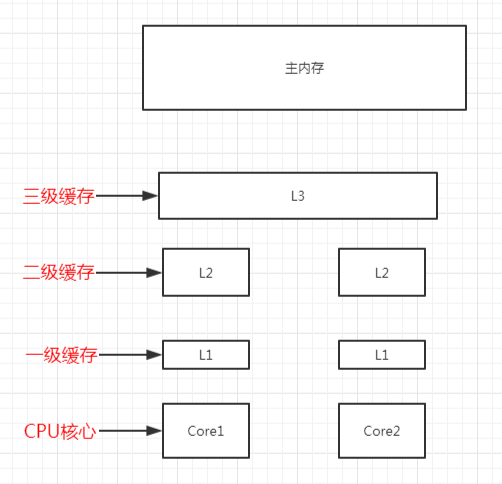
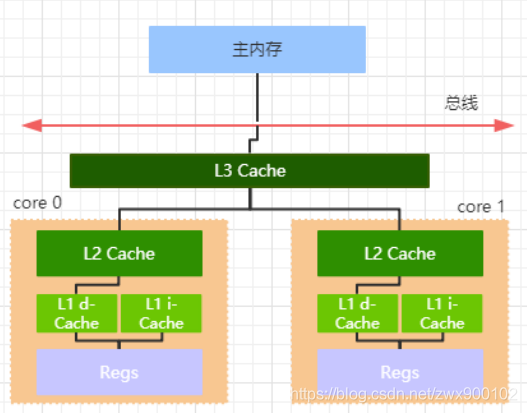
1

diff --git a/jvm/jmm.md b/jvm/jmm.md
@@ -1,5 +1,41 @@
 # jmm(java内存模型)
 
+## 硬件部分
+
+![](../resources/jmm.jpg)
+主内存：内存条  
+工作内存：cpu寄存器或者高速缓存
+
+![](../resources/jmm1.jpg)  
+这里一、二、三级缓存都是由缓存行组成，一个缓存行是64byte大小。
+
+## 伪共享
+
+伪共享的意思是，一个缓存行存多个属性，但是cpu都是以缓存行为单位执行的，这时候由于总线嗅探机制，会导致一个缓存行数据都失效，即使这个缓存行里只有一个属性有变化。解决方法：用@Contended注解，这个注解会自动为属性填充，使一个缓存行只有一个属性
+
+## volatile
+
+**原理：**  
+被volatile修饰的变量在编译成字节码文件时会多个lock指令，该指令在执行过程中会生成相应的<font color=red>**内存屏障**</font>，以此来解决可见性跟重排序的问题
+
+**作用：**
+
+1. 线程间可见：volatile并不是说线程直接读取主内存的值，而是当一个线程修改了工作内存的值，它会立即同步到主内存（没有用这个关键字并不是立即同步，而是看CPU），然后cpu总线嗅探机制会让其他核（线程)
+   的工作内存里的值失效，这样就可以重新去主内存拉取最新值
+2. 防止指令重排序
+
+**PS:用synchronized或者Lock给代码加锁，或者使用final，也是可以保证有序性与可见性的**
+
+1. 线程解锁前，必须把共享变量的最新值刷新到主内存中
+2. 线程加锁时，将清空工作内存中共享变量的值，从而使用共享变量时需要从主内存中重新获取最新的值
+
+## 内存屏障
+
+作用：
+
+1. 禁止指令重排序
+2. 保证数据的可见性（使用MESI协议）
+
 ## 指令重排
 
 在执行程序时，为了提高性能，编译器和处理器（**CPU**）会对指令做重排序：
@@ -35,47 +71,14 @@ Happens-Before规则：
 
 总结：一个操作“时间上的先发生”不代表这个操作先行发生；一个操作先行发生也不代表这个操作在时间上是先发生的（重排序的出现）。时间上的先后顺序对先行发生没有太大的关系，所以衡量并发安全问题的时候不要受到时间顺序的影响，一切以先行发生原则为准。
 
-## volatile
+## 缓存一致性协议(MESI)
 
-**作用：**
+MESI中每个缓存行都有四个状态，分别是E（exclusive）、M（modified）、S（shared）、I（invalid） MESI只是一种协议，他需要借助总线嗅探机制来实现
 
-1. 线程间可见：volatile并不是说线程直接读取主内存的值，而是当一个线程修改了工作内存的值，它会立即同步到主内存（没有用这个关键字并不是立即同步，而是看CPU），然后cpu总线嗅探机制会让其他核（线程)
-   的工作内存里的值失效，这样就可以重新去主内存拉取最新值
-2. 防止指令重排序
-
-**原理：**  
-内存屏障  
-在每个volatile写操作前插入StoreStore屏障，在写操作后插入StoreLoad屏障；在每个volatile读操作前插入LoadLoad屏障，在读操作后插入LoadStore屏障；所以volatile防止了指令的重排序(
-保证有序性)和内存的一致性(保证可见性)  
-
-**PS:用synchronized或者Lock给代码加锁，或者使用final，也是可以保证有序性与可见性的**  
-1. 线程解锁前，必须把共享变量的最新值刷新到主内存中
-2. 线程加锁时，将清空工作内存中共享变量的值，从而使用共享变量时需要从主内存中重新获取最新的值
-
-### 内存屏障
-
-作用：
-1. 它确保指令重排序时不会把其后面的指令排到内存屏障之前的位置，也不会把前面的指令排到内存屏障的后面；即在执行到内存屏障这句指令时，在它前面的操作已经全部完成；
-2. 它会强制将对缓存的修改操作立即写入主存；
-3. 如果是写操作，它会导致其他CPU中对应的缓存行无效。
-
-![](../resources/jmm.jpg)
-主内存：内存条  
-工作内存：cpu寄存器或者高速缓存
-
-## 缓存一致性协议(MESI)  
-MESI中每个缓存行都有四个状态，分别是E（exclusive）、M（modified）、S（shared）、I（invalid）  
-
-## 总线嗅探机制
-每个处理器（CPU）通过监听在总线上传播的数据来检查自己的缓存值是不是过期了，如果处理器发现自己缓存行对应的内存地址修改，就会将当前处理器的缓存行设置无效状态，当处理器对这个数据进行读取、修改操作的时候，会重新从主内存中把数据读到处理器缓存中。
+原理：  
+每个处理器（CPU）通过监听（<font color=red>**总线嗅探机制**</font>
+）在总线上传播的数据来检查自己的缓存值是不是过期了，如果处理器发现自己缓存行数据有修改，就会将当前处理器的缓存行设置无效状态，当处理器对这个数据进行读取、修改操作的时候，会重新从主内存中把数据读到处理器缓存中。
 
 ## 总线风暴
 
 如果用了太多volatile，会不断嗅探（cas）总线导致总线带宽达到峰值。
-
-## 伪共享：
-
-这里一、二、三级缓存都是由缓存行组成，一个缓存行是64byte大小。伪共享的意思是，一个缓存行存多个属性，但是cpu都是以缓存行为单位执行的，这时候由于总线嗅探机制，会导致一个缓存行数据都失效，即使这个缓存行里只有一个属性有变化。解决方法：用@Contended注解，这个注解会自动为属性填充，使一个缓存行只有一个属性
-
-PS: 寄存器和一级二级缓存都在cpu里，三级在外面  
-![](../resources/jmm1.jpg)

diff --git a/java/IO.md b/java/IO.md
@@ -1,0 +1,22 @@
+## IO 基础
+### 阻塞和非阻塞区别、同步和异步区别
+请求方要不要等，要等就是同步的，不要等而是通知，就是异步  
+
+socket是一种编程，是对TCP和DUP的一种编程
+
+### reactor、netty、nio联系
+reactor是一种设计模式，实现基础是nio；netty是用了reactor模型
+
+### io发展史
+单线程bio：一个请求如果被卡住，那么其他的客户端都连不进来
+多线程bio：每个请求都是一个线程，但是开销太大
+no-blocking io(注意这不是java的nio)：接受请求（accept）和读取数据（read）都不会阻塞，bio在这两个都会阻塞。但是nio由于不阻塞就要不断循环遍历所有client，即使部分client都没有数据
+多路复用IO（Nio: new io）：在nio基础上加了多路复用器。
+
+### select、poll、epoll区别
+Select 每次调用select()方法会把所有的fd一起传到内核，fd数量1024个
+poll 跟select原理一样但是没有个数限制，是一个链表结构
+epoll会在内核开辟一个空间存fd，这样就不用一直传fd，而是由内核通自己循环
+
+---
+
